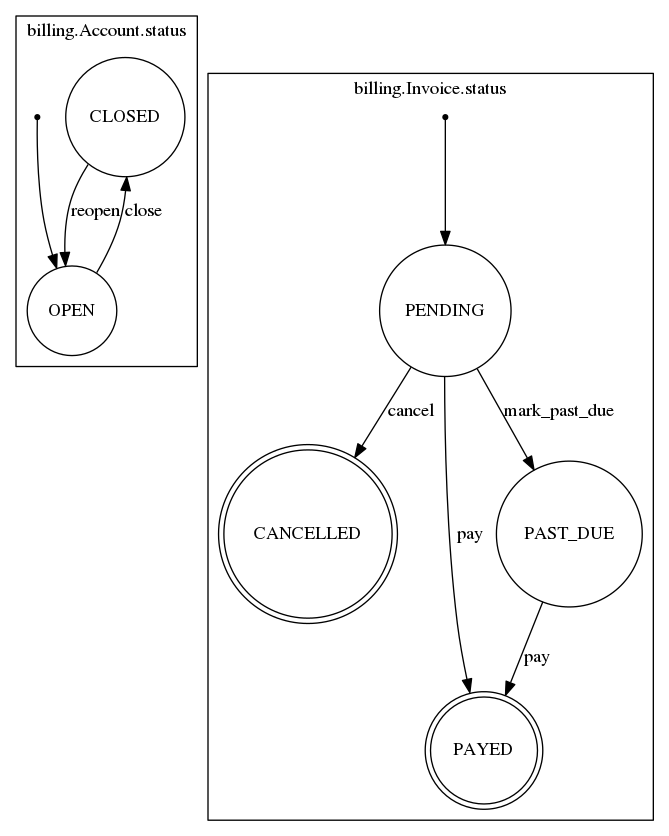
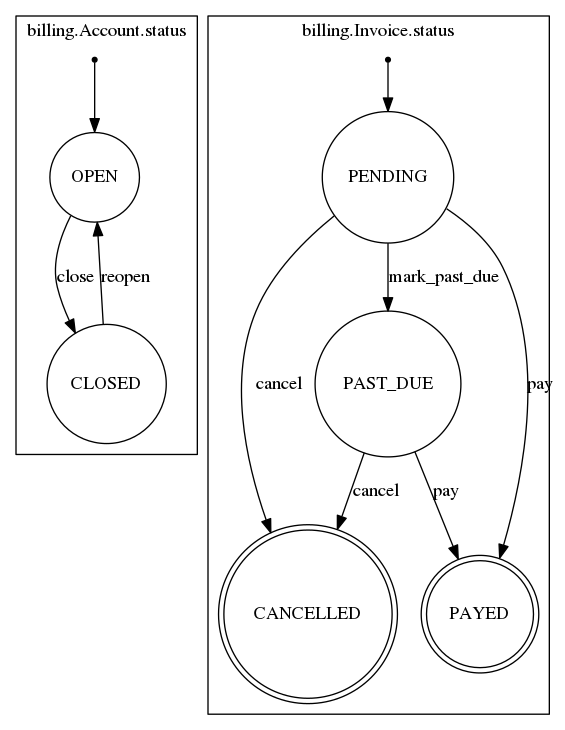
add missing transition
Also updated the state-machine diagrams and the readme

diff --git a/billing/models.py b/billing/models.py
@@ -110,7 +110,7 @@ class Invoice(Model):
     def pay(self):
         pass
 
-    @transition(field=status, source=PENDING, target=CANCELLED)
+    @transition(field=status, source=[PENDING, PAST_DUE], target=CANCELLED)
     def cancel(self):
         pass
 

diff --git a/README.md b/README.md
@@ -30,4 +30,23 @@ Add billing to your `INSTALLED_APPS`:
 Run the migrations: 
 
     ./manage.py migrate
-    
+
+
+Development
+-----------
+
+To install all dependencies:
+
+    python setup.py develop
+
+To run tests:
+
+    pip install pytest-django
+    pytest
+
+
+
+To generate a diagram representing the state-machines:
+
+    pip install graphviz
+    ./manage.py graph_transitions -o docs/state-machines.png
